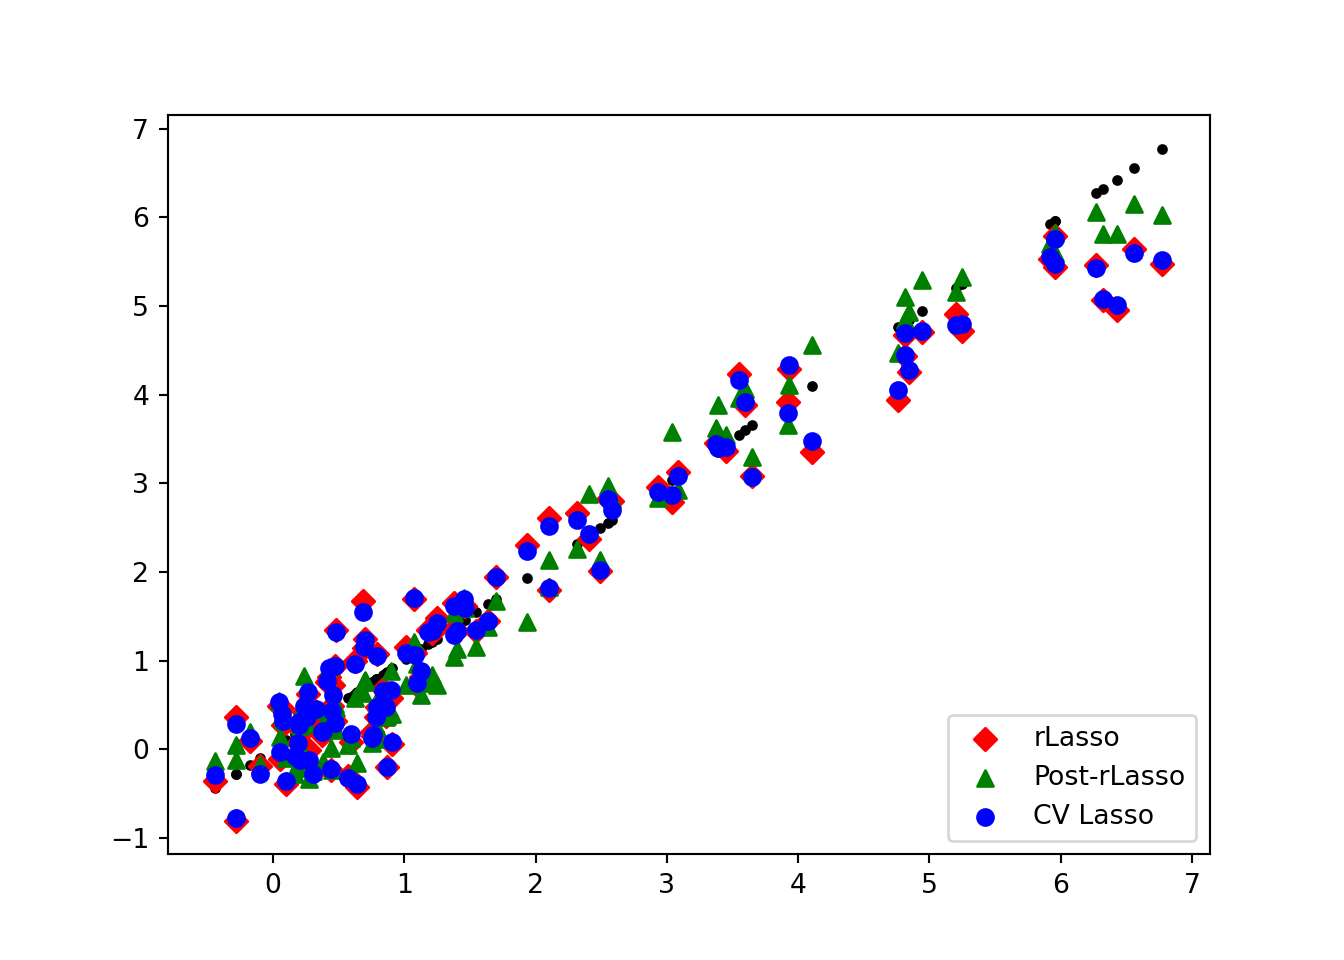
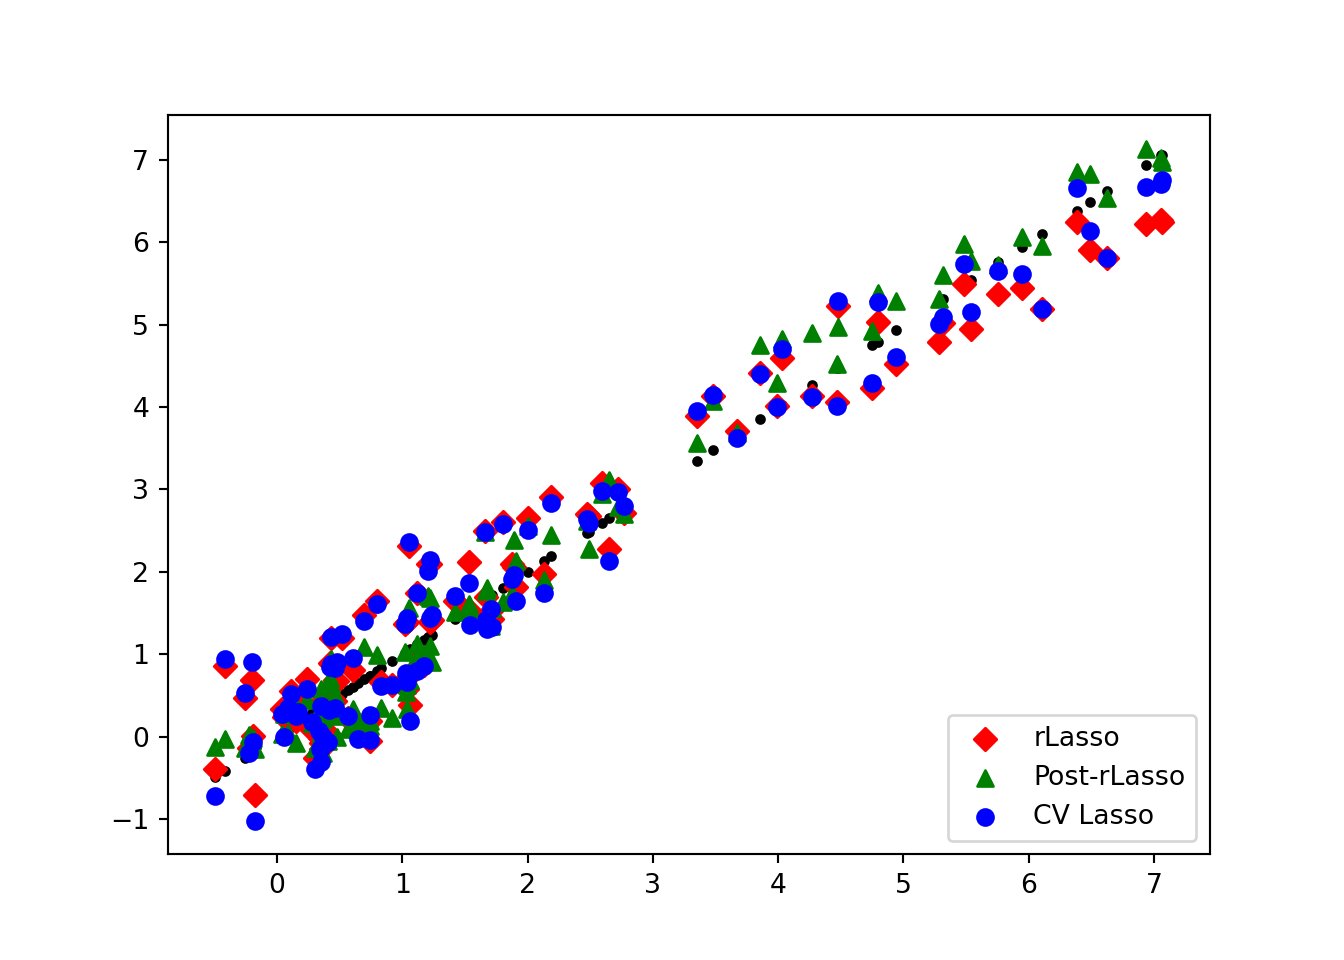
Arreglos finales issue #24

diff --git a/docs/penalized-linear-regressions-a-simulation-experiment.html b/docs/penalized-linear-regressions-a-simulation-experiment.html
@@ -338,7 +338,7 @@ a column separator --></p>
 a column separator --></p>
 </div><div class="column" style="width:49.5%;">
 <div class="sourceCode" id="cb17"><pre class="sourceCode python"><code class="sourceCode python"><span id="cb17-1"><a href="penalized-linear-regressions-a-simulation-experiment.html#cb17-1" aria-hidden="true" tabindex="-1"></a><span class="bu">print</span>( <span class="ss">f&quot;theoretical R2:, </span><span class="sc">{np.</span>var(gX) <span class="op">/</span> <span class="sc">np.</span>var( Y )<span class="sc">}</span><span class="ss">&quot;</span> ) </span></code></pre></div>
-<pre><code>## theoretical R2:, 0.7804575515831149</code></pre>
+<pre><code>## theoretical R2:, 0.6961362595144464</code></pre>
 <div class="sourceCode" id="cb19"><pre class="sourceCode python"><code class="sourceCode python"><span id="cb19-1"><a href="penalized-linear-regressions-a-simulation-experiment.html#cb19-1" aria-hidden="true" tabindex="-1"></a>X.shape</span></code></pre></div>
 <pre><code>## (100, 403)</code></pre>
 </div>
@@ -542,7 +542,7 @@ a column separator --></p>
 <div class="sourceCode" id="cb43"><pre class="sourceCode python"><code class="sourceCode python"><span id="cb43-1"><a href="penalized-linear-regressions-a-simulation-experiment.html#cb43-1" aria-hidden="true" tabindex="-1"></a>MSE_lava <span class="op">=</span> sm.OLS( ((gX <span class="op">-</span> yhat_lava)<span class="op">**</span><span class="dv">2</span> ) , np.ones( yhat_lava.size )  ).fit().summary2().tables[<span class="dv">1</span>].<span class="bu">round</span>(<span class="dv">3</span>)</span>
 <span id="cb43-2"><a href="penalized-linear-regressions-a-simulation-experiment.html#cb43-2" aria-hidden="true" tabindex="-1"></a>MSE_lava</span></code></pre></div>
 <pre><code>##        Coef.  Std.Err.      t  P&gt;|t|  [0.025  0.975]
-## const  0.238     0.038  6.312    0.0   0.163   0.313</code></pre>
+## const  0.252      0.03  8.321    0.0   0.192   0.312</code></pre>
 </div>
 </div>
 <div class="columns">
@@ -562,7 +562,7 @@ a column separator --></p>
 <span id="cb45-13"><a href="penalized-linear-regressions-a-simulation-experiment.html#cb45-13" aria-hidden="true" tabindex="-1"></a>tab <span class="ot">&lt;-</span> <span class="fu">xtable</span>(table, <span class="at">digits =</span><span class="dv">3</span>)</span>
 <span id="cb45-14"><a href="penalized-linear-regressions-a-simulation-experiment.html#cb45-14" aria-hidden="true" tabindex="-1"></a><span class="fu">print</span>(tab,<span class="at">type=</span><span class="st">&quot;latex&quot;</span>)</span></code></pre></div>
 <pre><code>## % latex table generated in R 4.1.1 by xtable 1.8-4 package
-## % Wed Sep 29 10:12:35 2021
+## % Wed Sep 29 11:55:28 2021
 ## \begin{table}[ht]
 ## \centering
 ## \begin{tabular}{rrr}
@@ -603,12 +603,12 @@ a column separator --></p>
 <span id="cb47-18"><a href="penalized-linear-regressions-a-simulation-experiment.html#cb47-18" aria-hidden="true" tabindex="-1"></a>table2_html <span class="op">=</span> table2_pandas.to_html()</span>
 <span id="cb47-19"><a href="penalized-linear-regressions-a-simulation-experiment.html#cb47-19" aria-hidden="true" tabindex="-1"></a>table2_pandas</span></code></pre></div>
 <pre><code>##                          MSA  S.E. for MSA
-## Cross-Validated Lasso  0.224         0.036
-## Cross-Validated Ridge  3.307         0.497
-## Cross-Validated elnet  0.427         0.060
-## Lasso                  0.238         0.038
-## Post-Lasso             0.134         0.014
-## Lava                   0.238         0.038</code></pre>
+## Cross-Validated Lasso  0.254         0.033
+## Cross-Validated Ridge  3.673         0.489
+## Cross-Validated elnet  0.464         0.060
+## Lasso                  0.252         0.030
+## Post-Lasso             0.125         0.016
+## Lava                   0.252         0.030</code></pre>
 </div>
 </div>
 <div class="columns">
@@ -723,9 +723,9 @@ a column separator --></p>
 a column separator --></p>
 </div><div class="column" style="width:49.5%;">
 <div class="sourceCode" id="cb59"><pre class="sourceCode python"><code class="sourceCode python"><span id="cb59-1"><a href="penalized-linear-regressions-a-simulation-experiment.html#cb59-1" aria-hidden="true" tabindex="-1"></a><span class="bu">print</span>( <span class="ss">f&quot;theoretical R2:, </span><span class="sc">{np.</span>var(gX) <span class="op">/</span> <span class="sc">np.</span>var( Y )<span class="sc">}</span><span class="ss">&quot;</span> ) </span></code></pre></div>
-<pre><code>## theoretical R2:, 0.8651145180809829</code></pre>
+<pre><code>## theoretical R2:, 0.8105936049252698</code></pre>
 <div class="sourceCode" id="cb61"><pre class="sourceCode python"><code class="sourceCode python"><span id="cb61-1"><a href="penalized-linear-regressions-a-simulation-experiment.html#cb61-1" aria-hidden="true" tabindex="-1"></a>np.var(gX) <span class="op">/</span> np.var( Y ) <span class="co">#theoretical R-square in the simulation example</span></span></code></pre></div>
-<pre><code>## 0.8651145180809829</code></pre>
+<pre><code>## 0.8105936049252698</code></pre>
 </div>
 </div>
 <div class="columns">
@@ -785,24 +785,22 @@ a column separator --></p>
 <!-- an empty Div (with a white space), serving as
 a column separator --></p>
 </div><div class="column" style="width:49.5%;">
-<div class="sourceCode" id="cb76"><pre class="sourceCode python"><code class="sourceCode python"><span id="cb76-1"><a href="penalized-linear-regressions-a-simulation-experiment.html#cb76-1" aria-hidden="true" tabindex="-1"></a><span class="im">import</span> statsmodels.api <span class="im">as</span> sm</span>
-<span id="cb76-2"><a href="penalized-linear-regressions-a-simulation-experiment.html#cb76-2" aria-hidden="true" tabindex="-1"></a>MSE_lasso_cv <span class="op">=</span> sm.OLS( ((gX <span class="op">-</span> yhat_lasso_cv)<span class="op">**</span><span class="dv">2</span> ) , np.ones( yhat_lasso_cv.shape )  ).fit().summary2().tables[<span class="dv">1</span>].<span class="bu">round</span>(<span class="dv">3</span>)</span>
-<span id="cb76-3"><a href="penalized-linear-regressions-a-simulation-experiment.html#cb76-3" aria-hidden="true" tabindex="-1"></a>MSE_ridge <span class="op">=</span> sm.OLS( ((gX <span class="op">-</span> yhat_ridge)<span class="op">**</span><span class="dv">2</span> ) , np.ones( yhat_ridge.size )  ).fit().summary2().tables[<span class="dv">1</span>].<span class="bu">round</span>(<span class="dv">3</span>)</span>
-<span id="cb76-4"><a href="penalized-linear-regressions-a-simulation-experiment.html#cb76-4" aria-hidden="true" tabindex="-1"></a>MSE_elnet <span class="op">=</span> sm.OLS( ((gX <span class="op">-</span> yhat_elnet)<span class="op">**</span><span class="dv">2</span> ) , np.ones( yhat_elnet.size )  ).fit().summary2().tables[<span class="dv">1</span>].<span class="bu">round</span>(<span class="dv">3</span>)</span>
-<span id="cb76-5"><a href="penalized-linear-regressions-a-simulation-experiment.html#cb76-5" aria-hidden="true" tabindex="-1"></a><span class="co"># our coefficient of MSE_elnet are far from r output</span></span></code></pre></div>
+<div class="sourceCode" id="cb76"><pre class="sourceCode python"><code class="sourceCode python"><span id="cb76-1"><a href="penalized-linear-regressions-a-simulation-experiment.html#cb76-1" aria-hidden="true" tabindex="-1"></a>MSE_lasso_cv <span class="op">=</span> sm.OLS( ((gX <span class="op">-</span> yhat_lasso_cv)<span class="op">**</span><span class="dv">2</span> ) , np.ones( yhat_lasso_cv.shape )  ).fit().summary2().tables[<span class="dv">1</span>].<span class="bu">round</span>(<span class="dv">3</span>)</span>
+<span id="cb76-2"><a href="penalized-linear-regressions-a-simulation-experiment.html#cb76-2" aria-hidden="true" tabindex="-1"></a>MSE_ridge <span class="op">=</span> sm.OLS( ((gX <span class="op">-</span> yhat_ridge)<span class="op">**</span><span class="dv">2</span> ) , np.ones( yhat_ridge.size )  ).fit().summary2().tables[<span class="dv">1</span>].<span class="bu">round</span>(<span class="dv">3</span>)</span>
+<span id="cb76-3"><a href="penalized-linear-regressions-a-simulation-experiment.html#cb76-3" aria-hidden="true" tabindex="-1"></a>MSE_elnet <span class="op">=</span> sm.OLS( ((gX <span class="op">-</span> yhat_elnet)<span class="op">**</span><span class="dv">2</span> ) , np.ones( yhat_elnet.size )  ).fit().summary2().tables[<span class="dv">1</span>].<span class="bu">round</span>(<span class="dv">3</span>)</span>
+<span id="cb76-4"><a href="penalized-linear-regressions-a-simulation-experiment.html#cb76-4" aria-hidden="true" tabindex="-1"></a><span class="co"># our coefficient of MSE_elnet are far from r output</span></span></code></pre></div>
 </div>
 </div>
 <div class="columns">
 <div class="column" style="width:49.5%;">
-<div class="sourceCode" id="cb77"><pre class="sourceCode r"><code class="sourceCode r"><span id="cb77-1"><a href="penalized-linear-regressions-a-simulation-experiment.html#cb77-1" aria-hidden="true" tabindex="-1"></a><span class="fu">library</span>(hdm) </span>
-<span id="cb77-2"><a href="penalized-linear-regressions-a-simulation-experiment.html#cb77-2" aria-hidden="true" tabindex="-1"></a>fit.rlasso  <span class="ot">&lt;-</span> <span class="fu">rlasso</span>(Y<span class="sc">~</span>X,  <span class="at">post=</span><span class="cn">FALSE</span>)      <span class="co"># lasso with plug-in penalty level</span></span>
-<span id="cb77-3"><a href="penalized-linear-regressions-a-simulation-experiment.html#cb77-3" aria-hidden="true" tabindex="-1"></a>fit.rlasso.post <span class="ot">&lt;-</span> <span class="fu">rlasso</span>(Y<span class="sc">~</span>X,  <span class="at">post=</span><span class="cn">TRUE</span>)    <span class="co"># post-lasso with plug-in penalty level</span></span>
-<span id="cb77-4"><a href="penalized-linear-regressions-a-simulation-experiment.html#cb77-4" aria-hidden="true" tabindex="-1"></a></span>
-<span id="cb77-5"><a href="penalized-linear-regressions-a-simulation-experiment.html#cb77-5" aria-hidden="true" tabindex="-1"></a>yhat.rlasso   <span class="ot">&lt;-</span> <span class="fu">predict</span>(fit.rlasso)            <span class="co">#predict g(X) for values of X</span></span>
-<span id="cb77-6"><a href="penalized-linear-regressions-a-simulation-experiment.html#cb77-6" aria-hidden="true" tabindex="-1"></a>yhat.rlasso.post   <span class="ot">&lt;-</span> <span class="fu">predict</span>(fit.rlasso.post)  <span class="co">#predict g(X) for values of X</span></span>
-<span id="cb77-7"><a href="penalized-linear-regressions-a-simulation-experiment.html#cb77-7" aria-hidden="true" tabindex="-1"></a></span>
-<span id="cb77-8"><a href="penalized-linear-regressions-a-simulation-experiment.html#cb77-8" aria-hidden="true" tabindex="-1"></a>MSE.lasso <span class="ot">&lt;-</span> <span class="fu">summary</span>(<span class="fu">lm</span>((gX<span class="sc">-</span>yhat.rlasso)<span class="sc">^</span><span class="dv">2</span><span class="sc">~</span><span class="dv">1</span>))<span class="sc">$</span>coef[<span class="dv">1</span><span class="sc">:</span><span class="dv">2</span>]       <span class="co"># report MSE and standard error for MSE for approximating g(X)</span></span>
-<span id="cb77-9"><a href="penalized-linear-regressions-a-simulation-experiment.html#cb77-9" aria-hidden="true" tabindex="-1"></a>MSE.lasso.post <span class="ot">&lt;-</span> <span class="fu">summary</span>(<span class="fu">lm</span>((gX<span class="sc">-</span>yhat.rlasso.post)<span class="sc">^</span><span class="dv">2</span><span class="sc">~</span><span class="dv">1</span>))<span class="sc">$</span>coef[<span class="dv">1</span><span class="sc">:</span><span class="dv">2</span>]  <span class="co"># report MSE and standard error for MSE for approximating g(X)</span></span></code></pre></div>
+<div class="sourceCode" id="cb77"><pre class="sourceCode r"><code class="sourceCode r"><span id="cb77-1"><a href="penalized-linear-regressions-a-simulation-experiment.html#cb77-1" aria-hidden="true" tabindex="-1"></a>fit.rlasso  <span class="ot">&lt;-</span> <span class="fu">rlasso</span>(Y<span class="sc">~</span>X,  <span class="at">post=</span><span class="cn">FALSE</span>)      <span class="co"># lasso with plug-in penalty level</span></span>
+<span id="cb77-2"><a href="penalized-linear-regressions-a-simulation-experiment.html#cb77-2" aria-hidden="true" tabindex="-1"></a>fit.rlasso.post <span class="ot">&lt;-</span> <span class="fu">rlasso</span>(Y<span class="sc">~</span>X,  <span class="at">post=</span><span class="cn">TRUE</span>)    <span class="co"># post-lasso with plug-in penalty level</span></span>
+<span id="cb77-3"><a href="penalized-linear-regressions-a-simulation-experiment.html#cb77-3" aria-hidden="true" tabindex="-1"></a></span>
+<span id="cb77-4"><a href="penalized-linear-regressions-a-simulation-experiment.html#cb77-4" aria-hidden="true" tabindex="-1"></a>yhat.rlasso   <span class="ot">&lt;-</span> <span class="fu">predict</span>(fit.rlasso)            <span class="co">#predict g(X) for values of X</span></span>
+<span id="cb77-5"><a href="penalized-linear-regressions-a-simulation-experiment.html#cb77-5" aria-hidden="true" tabindex="-1"></a>yhat.rlasso.post   <span class="ot">&lt;-</span> <span class="fu">predict</span>(fit.rlasso.post)  <span class="co">#predict g(X) for values of X</span></span>
+<span id="cb77-6"><a href="penalized-linear-regressions-a-simulation-experiment.html#cb77-6" aria-hidden="true" tabindex="-1"></a></span>
+<span id="cb77-7"><a href="penalized-linear-regressions-a-simulation-experiment.html#cb77-7" aria-hidden="true" tabindex="-1"></a>MSE.lasso <span class="ot">&lt;-</span> <span class="fu">summary</span>(<span class="fu">lm</span>((gX<span class="sc">-</span>yhat.rlasso)<span class="sc">^</span><span class="dv">2</span><span class="sc">~</span><span class="dv">1</span>))<span class="sc">$</span>coef[<span class="dv">1</span><span class="sc">:</span><span class="dv">2</span>]       <span class="co"># report MSE and standard error for MSE for approximating g(X)</span></span>
+<span id="cb77-8"><a href="penalized-linear-regressions-a-simulation-experiment.html#cb77-8" aria-hidden="true" tabindex="-1"></a>MSE.lasso.post <span class="ot">&lt;-</span> <span class="fu">summary</span>(<span class="fu">lm</span>((gX<span class="sc">-</span>yhat.rlasso.post)<span class="sc">^</span><span class="dv">2</span><span class="sc">~</span><span class="dv">1</span>))<span class="sc">$</span>coef[<span class="dv">1</span><span class="sc">:</span><span class="dv">2</span>]  <span class="co"># report MSE and standard error for MSE for approximating g(X)</span></span></code></pre></div>
 </div><div class="column" style="width:1%;">
 <p> 
 <!-- an empty Div (with a white space), serving as
@@ -914,12 +912,11 @@ a column separator --></p>
 <span id="cb85-7"><a href="penalized-linear-regressions-a-simulation-experiment.html#cb85-7" aria-hidden="true" tabindex="-1"></a>table[<span class="dv">6</span>,<span class="dv">1</span><span class="sc">:</span><span class="dv">2</span>]   <span class="ot">&lt;-</span> MSE.lava</span>
 <span id="cb85-8"><a href="penalized-linear-regressions-a-simulation-experiment.html#cb85-8" aria-hidden="true" tabindex="-1"></a></span>
 <span id="cb85-9"><a href="penalized-linear-regressions-a-simulation-experiment.html#cb85-9" aria-hidden="true" tabindex="-1"></a><span class="fu">colnames</span>(table)<span class="ot">&lt;-</span> <span class="fu">c</span>(<span class="st">&quot;MSA&quot;</span>, <span class="st">&quot;S.E. for MSA&quot;</span>)</span>
-<span id="cb85-10"><a href="penalized-linear-regressions-a-simulation-experiment.html#cb85-10" aria-hidden="true" tabindex="-1"></a><span class="fu">rownames</span>(table)<span class="ot">&lt;-</span> <span class="fu">c</span>(<span class="st">&quot;Cross-Validated Lasso&quot;</span>, <span class="st">&quot;Cross-Validated ridge&quot;</span>,<span class="st">&quot;Cross-Validated elnet&quot;</span>,</span>
-<span id="cb85-11"><a href="penalized-linear-regressions-a-simulation-experiment.html#cb85-11" aria-hidden="true" tabindex="-1"></a>                    <span class="st">&quot;Lasso&quot;</span>,<span class="st">&quot;Post-Lasso&quot;</span>,<span class="st">&quot;Lava&quot;</span>)</span>
-<span id="cb85-12"><a href="penalized-linear-regressions-a-simulation-experiment.html#cb85-12" aria-hidden="true" tabindex="-1"></a>tab <span class="ot">&lt;-</span> <span class="fu">xtable</span>(table, <span class="at">digits =</span><span class="dv">3</span>)</span>
-<span id="cb85-13"><a href="penalized-linear-regressions-a-simulation-experiment.html#cb85-13" aria-hidden="true" tabindex="-1"></a><span class="fu">print</span>(tab,<span class="at">type=</span><span class="st">&quot;latex&quot;</span>) <span class="co"># set type=&quot;latex&quot; for printing table in LaTeX</span></span></code></pre></div>
+<span id="cb85-10"><a href="penalized-linear-regressions-a-simulation-experiment.html#cb85-10" aria-hidden="true" tabindex="-1"></a><span class="fu">rownames</span>(table)<span class="ot">&lt;-</span> <span class="fu">c</span>(<span class="st">&quot;Cross-Validated Lasso&quot;</span>, <span class="st">&quot;Cross-Validated ridge&quot;</span>,<span class="st">&quot;Cross-Validated elnet&quot;</span>,<span class="st">&quot;Lasso&quot;</span>,<span class="st">&quot;Post-Lasso&quot;</span>,<span class="st">&quot;Lava&quot;</span>)</span>
+<span id="cb85-11"><a href="penalized-linear-regressions-a-simulation-experiment.html#cb85-11" aria-hidden="true" tabindex="-1"></a>tab <span class="ot">&lt;-</span> <span class="fu">xtable</span>(table, <span class="at">digits =</span><span class="dv">3</span>)</span>
+<span id="cb85-12"><a href="penalized-linear-regressions-a-simulation-experiment.html#cb85-12" aria-hidden="true" tabindex="-1"></a><span class="fu">print</span>(tab,<span class="at">type=</span><span class="st">&quot;latex&quot;</span>) <span class="co"># set type=&quot;latex&quot; for printing table in LaTeX</span></span></code></pre></div>
 <pre><code>## % latex table generated in R 4.1.1 by xtable 1.8-4 package
-## % Wed Sep 29 10:13:40 2021
+## % Wed Sep 29 11:58:00 2021
 ## \begin{table}[ht]
 ## \centering
 ## \begin{tabular}{rrr}
@@ -937,7 +934,7 @@ a column separator --></p>
 ## \end{table}</code></pre>
 <div class="sourceCode" id="cb87"><pre class="sourceCode r"><code class="sourceCode r"><span id="cb87-1"><a href="penalized-linear-regressions-a-simulation-experiment.html#cb87-1" aria-hidden="true" tabindex="-1"></a>tab</span></code></pre></div>
 <pre><code>## % latex table generated in R 4.1.1 by xtable 1.8-4 package
-## % Wed Sep 29 10:13:40 2021
+## % Wed Sep 29 11:58:00 2021
 ## \begin{table}[ht]
 ## \centering
 ## \begin{tabular}{rrr}
@@ -977,12 +974,12 @@ a column separator --></p>
 <span id="cb89-17"><a href="penalized-linear-regressions-a-simulation-experiment.html#cb89-17" aria-hidden="true" tabindex="-1"></a>table2_html <span class="op">=</span> table2_pandas.to_html()</span>
 <span id="cb89-18"><a href="penalized-linear-regressions-a-simulation-experiment.html#cb89-18" aria-hidden="true" tabindex="-1"></a>table2_pandas</span></code></pre></div>
 <pre><code>##                          MSA  S.E. for MSA
-## Cross-Validated Lasso  1.119         0.143
-## Cross-Validated Ridge  4.138         0.612
-## Cross-Validated elnet  0.774         0.110
-## Lasso                  1.332         0.179
-## Post-Lasso             2.133         0.258
-## Lava                   1.328         0.179</code></pre>
+## Cross-Validated Lasso  0.941         0.114
+## Cross-Validated Ridge  3.385         0.459
+## Cross-Validated elnet  1.100         0.137
+## Lasso                  1.041         0.127
+## Post-Lasso             1.642         0.204
+## Lava                   1.038         0.127</code></pre>
 </div>
 </div>
 <div class="columns">
